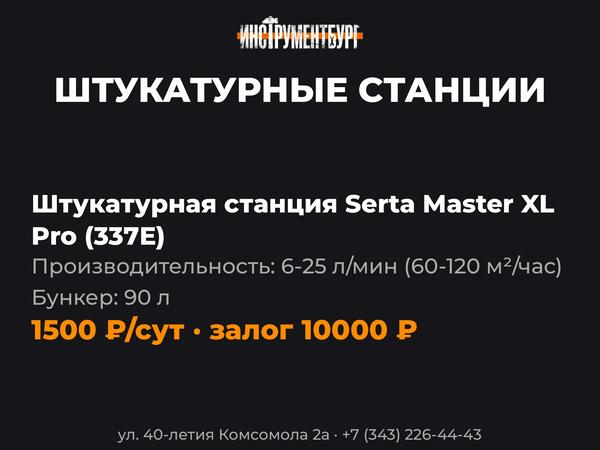
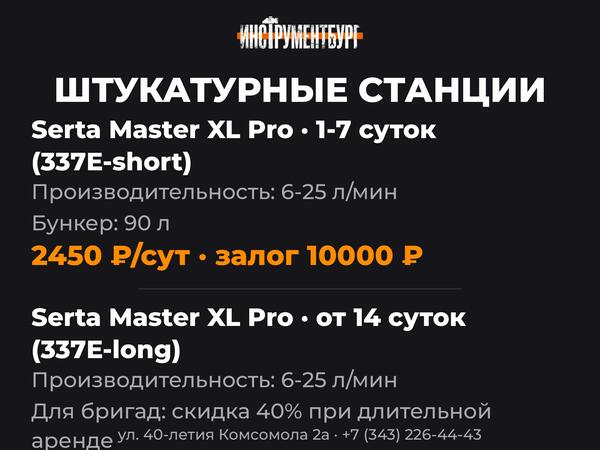
preview: update 29 ads

Changed region(s): [[0.03, 0.2489, 0.96, 0.9333], [0.03, 0.9644, 0.21, 1.0]]

diff --git a/index.html b/index.html
@@ -62,7 +62,7 @@ body { font-family: -apple-system, BlinkMacSystemFont, 'Segoe UI', Roboto, sans-
 <body>
 <div class="header">
   <h1>Превью Авито — 29 объявлений</h1>
-  <p>Проверь текст и фото перед деплоем &middot; 20.04.2026 04:18</p>
+  <p>Проверь текст и фото перед деплоем &middot; 20.04.2026 04:20</p>
 </div>
 <div class="toc">
   <h3>Навигация</h3>
@@ -799,7 +799,7 @@ body { font-family: -apple-system, BlinkMacSystemFont, 'Segoe UI', Roboto, sans-
         <h2 class="ad-title">Аренда штукатурной станции Serta Master XL</h2>
         <div class="title-len">42 символов</div>
         <div class="ad-price">1500 &#8381;</div>
-        <div class="ad-description"><p class="ad-model">Аренда штукатурной станции в Екатеринбурге — от 1 500₽/сут. Serta Master XL Pro: производительность 6-25 л/мин, бункер 90 л, подача до 25 м. Машинная штукатурка стен и потолков в квартирах и домах — в 3-5 раз быстрее ручной. Свой сервис — техника проверена, работаем с 2014 года.</p><p class="ad-model">Serta Master XL Pro — 1 500₽/сут</p><p class="ad-model">Питание 220/380В, потребление 6,5 кВт. Бункер 90 л, давление 30 бар, подача смеси до 25 м по шлангу. Производительность 60-120 м²/час — квартира за смену. Работает с гипсовыми и цементными смесями: Knauf, Волма, Старатели и др. Вес 220 кг, колёса для перемещения. Залог 10 000₽.</p><h4 class="ad-section">Для чего берут:</h4><ul class="ad-list"><li>Штукатурка квартиры под чистовую отделку — 1-2 дня</li><li>Потолки — быстрее в 3-5 раз, чем ручным способом</li><li>Фасад внутри помещения — механизированная подача на 3 этаж</li><li>Цементно-песчаная стяжка на полу — с правильным шлангом</li><li>Бригады отделочников — берут на объект под заказчика</li></ul><h4 class="ad-section">Особенности Serta Master XL Pro:</h4><ul class="ad-list"><li>Автоматический режим замеса — сухая смесь + вода из водопровода</li><li>Плавное регулирование производительности</li><li>Быстрая промывка после смены</li><li>Работает от бытовой сети 220В при малых объёмах</li></ul><h4 class="ad-section">Условия:</h4><ul class="ad-list"><li>От 1 суток, от 3 дней скидка 10%</li><li>Выходные за 1 день: берёте в пятницу, возвращаете в понедельник</li><li>Залог наличными (с пропиской Екатеринбурга — без залога)</li><li>Оплата: наличные, карта, QR-код, безнал с НДС</li><li>Инструктаж при выдаче, промывка входит в стоимость аренды</li></ul><p>Доставка манипулятором по городу — 220 кг везти на легковой машине не получится. Если сломается — заменим без доплаты. Ремонтируем сами, работаем с 2014 года. Напишите — ответим за 5 минут.</p><p>Работаем с организациями и бюджетниками. 44-ФЗ, 223-ФЗ, договоры с отсрочкой, КП за час. Россети, ЕЭСК, промпредприятия Урала — наши постоянные клиенты.</p><div class="ad-contact-line">📍 ул. 40-летия Комсомола 2а, Екатеринбург</div><div class="ad-contact-line">⏰ Пн-Пт 9:00-18:00</div><div class="ad-contact-line">📞 +7 (343) 226-44-43</div><p>Аренда штукатурной станции, прокат штукатурной станции Екатеринбург, машинная штукатурка, Serta Master XL Pro, штукатурный аппарат в аренду</p></div>
+        <div class="ad-description"><p class="ad-model">Аренда штукатурной станции в Екатеринбурге — от 1 500₽/сут при длительной аренде. Serta Master XL Pro: производительность 6-25 л/мин, бункер 90 л, подача до 25 м. Машинная штукатурка стен и потолков в квартирах и домах — в 3-5 раз быстрее ручной. Свой сервис — техника проверена, работаем с 2014 года.</p><h4 class="ad-section">Тариф:</h4><ul class="ad-list"><li>1-7 суток — 2 450₽/сут</li><li>от 14 суток — 1 500₽/сут (бригадам и большим объектам)</li></ul><p>Serta Master XL Pro</p><p class="ad-model">Питание 220/380В, потребление 6,5 кВт. Бункер 90 л, давление 30 бар, подача смеси до 25 м по шлангу. Производительность 60-120 м²/час — квартира за смену. Работает с гипсовыми и цементными смесями: Knauf, Волма, Старатели и др. Вес 220 кг, колёса для перемещения. Залог 10 000₽.</p><h4 class="ad-section">Для чего берут:</h4><ul class="ad-list"><li>Штукатурка квартиры под чистовую отделку — 1-2 дня</li><li>Потолки — быстрее в 3-5 раз, чем ручным способом</li><li>Фасад внутри помещения — механизированная подача на 3 этаж</li><li>Цементно-песчаная стяжка на полу — с правильным шлангом</li><li>Бригады отделочников — берут на объект под заказчика</li></ul><h4 class="ad-section">Особенности Serta Master XL Pro:</h4><ul class="ad-list"><li>Автоматический режим замеса — сухая смесь + вода из водопровода</li><li>Плавное регулирование производительности</li><li>Быстрая промывка после смены</li><li>Работает от бытовой сети 220В при малых объёмах</li></ul><h4 class="ad-section">Условия:</h4><ul class="ad-list"><li>От 1 суток, от 3 дней скидка 10%</li><li>Выходные за 1 день: берёте в пятницу, возвращаете в понедельник</li><li>Залог наличными (с пропиской Екатеринбурга — без залога)</li><li>Оплата: наличные, карта, QR-код, безнал с НДС</li><li>Инструктаж при выдаче, промывка входит в стоимость аренды</li></ul><p>Доставка манипулятором по городу — 220 кг везти на легковой машине не получится. Если сломается — заменим без доплаты. Ремонтируем сами, работаем с 2014 года. Напишите — ответим за 5 минут.</p><p>Работаем с организациями и бюджетниками. 44-ФЗ, 223-ФЗ, договоры с отсрочкой, КП за час. Россети, ЕЭСК, промпредприятия Урала — наши постоянные клиенты.</p><div class="ad-contact-line">📍 ул. 40-летия Комсомола 2а, Екатеринбург</div><div class="ad-contact-line">⏰ Пн-Пт 9:00-18:00</div><div class="ad-contact-line">📞 +7 (343) 226-44-43</div><p>Аренда штукатурной станции, прокат штукатурной станции Екатеринбург, машинная штукатурка, Serta Master XL Pro, штукатурный аппарат в аренду</p></div>
       </div>
 
       <div class="ad-meta">
